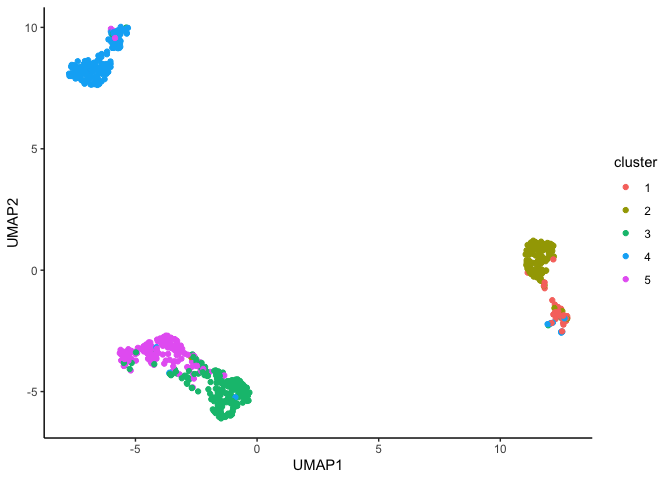
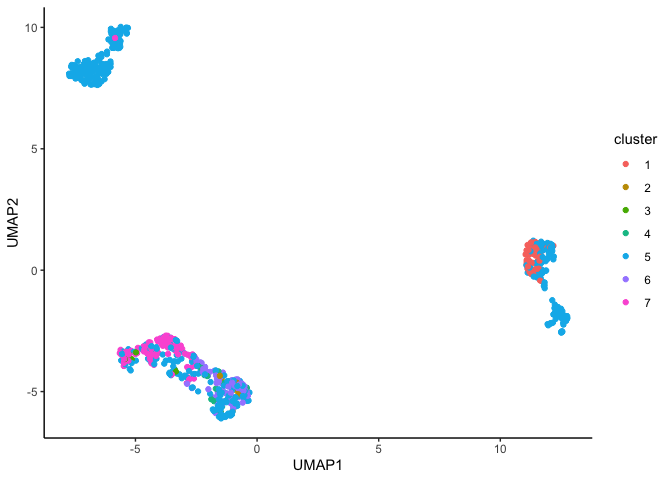
added kmeans

diff --git a/README.md b/README.md
@@ -62,12 +62,12 @@ data(exampleData)
 
 # Run CLUEY
 # If your logcounts matrix is in dgCMatrix format, then you'll need to convert it to a matrix using `as.matrix()`
-clustering_results <- run_CLUEY(rna=as.matrix(logcounts(exampleData)), knowledgebase=mcaFACS, k_limit=10)
-#> 50/50 - 0s - 73ms/epoch - 1ms/step
-#> 6/6 - 0s - 41ms/epoch - 7ms/step
-#> 7/7 - 0s - 45ms/epoch - 6ms/step
-#> 7/7 - 0s - 50ms/epoch - 7ms/step
-#> 6/6 - 0s - 43ms/epoch - 7ms/step
+clustering_results <- run_CLUEY(rna=as.matrix(logcounts(exampleData)), clus_method="kmeans", knowledgebase=mcaFACS, k_limit=10)
+#> 50/50 - 0s - 100ms/epoch - 2ms/step
+#> 3/3 - 0s - 45ms/epoch - 15ms/step
+#> 4/4 - 0s - 44ms/epoch - 11ms/step
+#> 17/17 - 0s - 51ms/epoch - 3ms/step
+#> 3/3 - 0s - 45ms/epoch - 15ms/step
 ```
 
 ## Viewing results
@@ -80,7 +80,7 @@ set.seed(3435)
 
 # View the optimal number of clusters predicted by CLUEY
 clustering_results$optimal_K
-#> [1] 5
+#> [1] 7
 
 # We can store the results in the metadata of our SingleCellExperiment object. 
 colData(exampleData) <- cbind(colData(exampleData), clustering_results$predictions)
